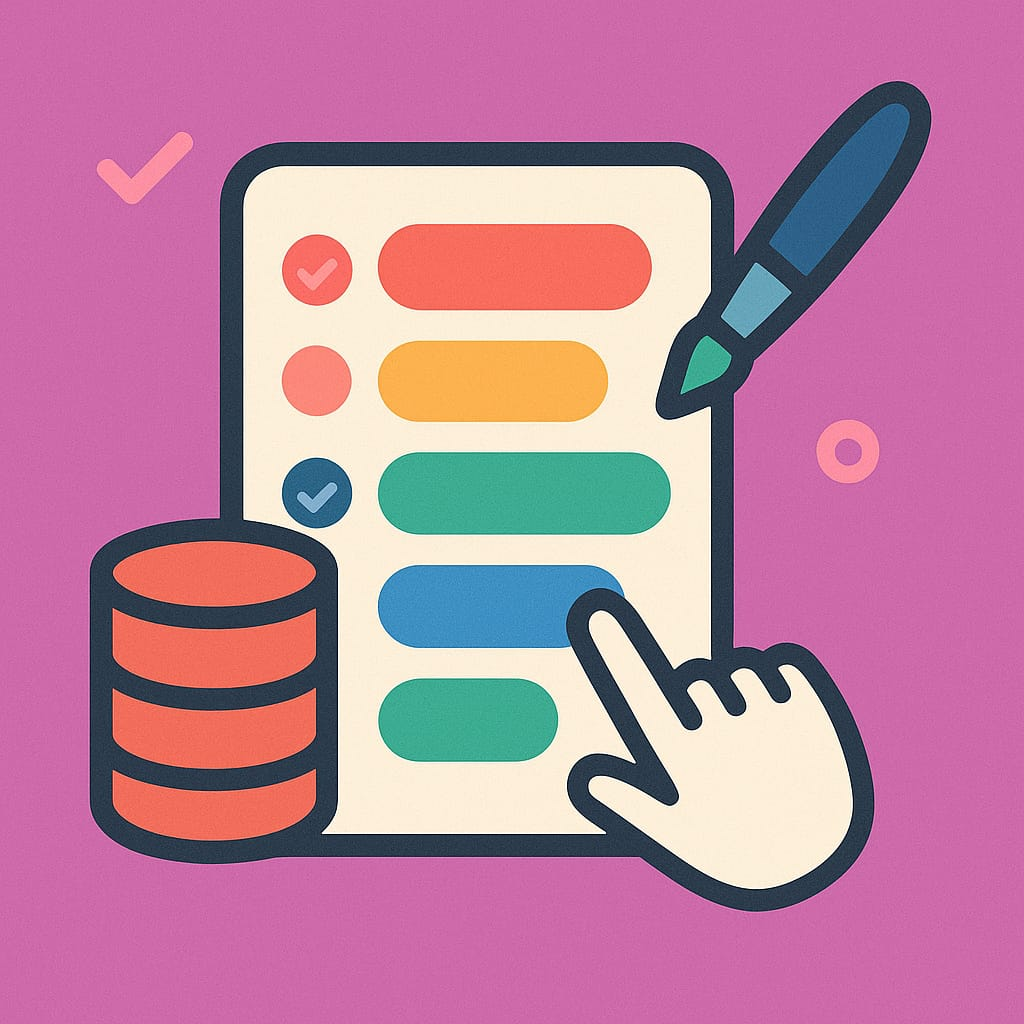
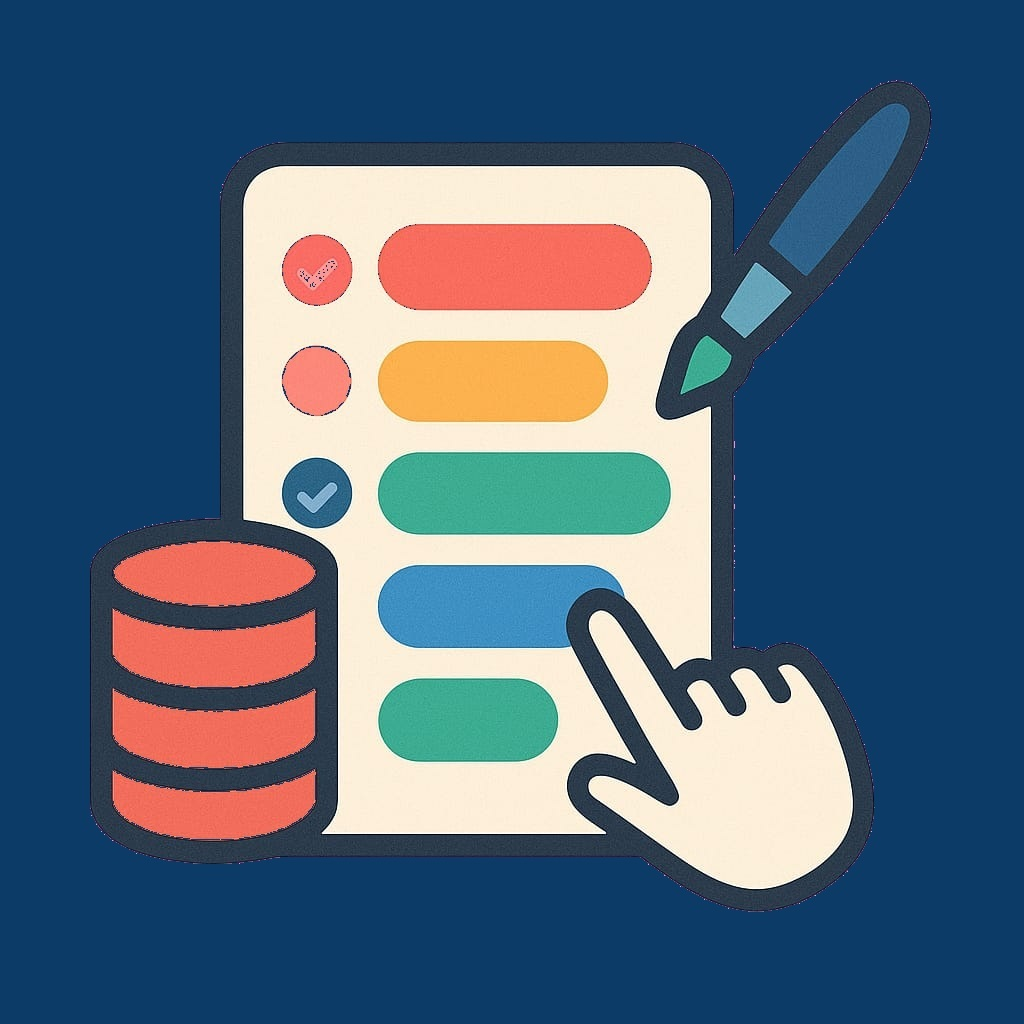
chore: alinhar splash e icone com paleta do app

diff --git a/web/index.html b/web/index.html
@@ -1,6 +1,4 @@
-<!DOCTYPE html>
-<html>
-<head>
+<!DOCTYPE html><html><head>
   <!--
     If you are serving your web app in a path other than the root, change the
     href value below to reflect the base path you are serving from.
@@ -27,12 +25,85 @@
   <link rel="apple-touch-icon" href="icons/Icon-192.png">
 
   <!-- Favicon -->
-  <link rel="icon" type="image/png" href="favicon.png"/>
+  <link rel="icon" type="image/png" href="favicon.png">
 
   <title>approutine</title>
   <link rel="manifest" href="manifest.json">
+  <style id="splash-screen-style">
+    html {
+      height: 100%
+    }
+
+    body {
+      margin: 0;
+      min-height: 100%;
+      background-color: #0B3B66;
+          background-size: 100% 100%;
+    }
+
+    .center {
+      margin: 0;
+      position: absolute;
+      top: 50%;
+      left: 50%;
+      -ms-transform: translate(-50%, -50%);
+      transform: translate(-50%, -50%);
+    }
+
+    .contain {
+      display:block;
+      width:100%; height:100%;
+      object-fit: contain;
+    }
+
+    .stretch {
+      display:block;
+      width:100%; height:100%;
+    }
+
+    .cover {
+      display:block;
+      width:100%; height:100%;
+      object-fit: cover;
+    }
+
+    .bottom {
+      position: absolute;
+      bottom: 0;
+      left: 50%;
+      -ms-transform: translate(-50%, 0);
+      transform: translate(-50%, 0);
+    }
+
+    .bottomLeft {
+      position: absolute;
+      bottom: 0;
+      left: 0;
+    }
+
+    .bottomRight {
+      position: absolute;
+      bottom: 0;
+      right: 0;
+    }
+
+    @media (prefers-color-scheme: dark) {
+      body {
+        background-color: #0B3B66;
+          }
+    }
+  </style>
+  <script id="splash-screen-script">
+    function removeSplashFromWeb() {
+      document.getElementById("splash")?.remove();
+      document.getElementById("splash-branding")?.remove();
+      document.body.style.background = "transparent";
+    }
+  </script>
+  <meta content="width=device-width, initial-scale=1.0, maximum-scale=1.0, user-scalable=no" name="viewport">
 </head>
 <body>
-  <script src="flutter_bootstrap.js" async></script>
-</body>
-</html>
+  <script src="flutter_bootstrap.js" async=""></script>
+
+
+</body></html>
